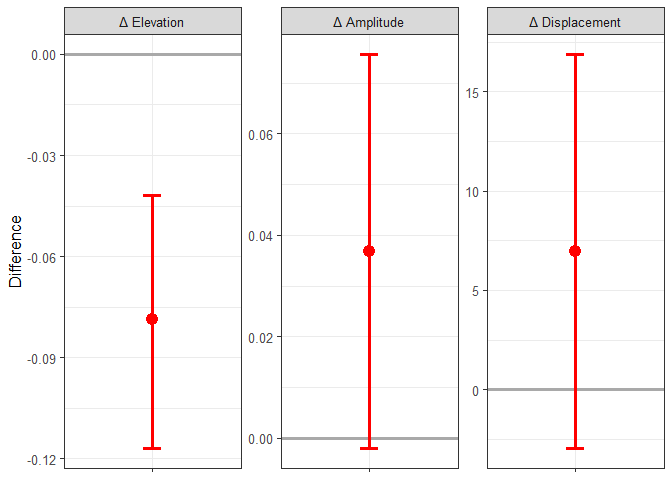
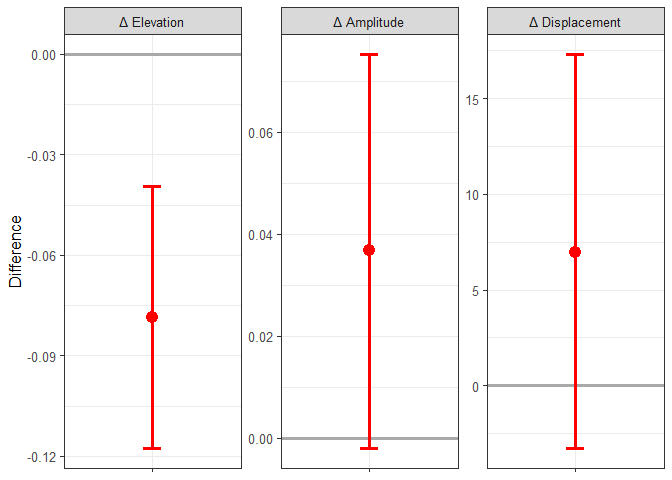
Update README to use new ssm_table options

diff --git a/README.md b/README.md
@@ -43,69 +43,63 @@ results <- ssm_analyze(jz2017, PA:NO, octants(), measures = c(NARPD, ASPD))
 ssm_table(results, xy = FALSE)
 ```
 
-<table class="gmisc_table" style="border-collapse: collapse; margin-top: 1em; margin-bottom: 1em;">
+<table class="table" style="margin-left: auto; margin-right: auto;">
 <thead>
 <tr>
-<td colspan="5" style="text-align: left;">
-Correlation-based Structural Summary Statistics with 95% CIs
-</td>
-</tr>
-<tr>
-<th style="border-bottom: 1px solid grey; border-top: 2px solid grey; text-align: left;">
+<th style="text-align:left;">
 Profile
 </th>
-<th style="border-bottom: 1px solid grey; border-top: 2px solid grey; text-align: left;">
+<th style="text-align:left;">
 Elevation
 </th>
-<th style="border-bottom: 1px solid grey; border-top: 2px solid grey; text-align: left;">
+<th style="text-align:left;">
 Amplitude
 </th>
-<th style="border-bottom: 1px solid grey; border-top: 2px solid grey; text-align: left;">
+<th style="text-align:left;">
 Displacement
 </th>
-<th style="border-bottom: 1px solid grey; border-top: 2px solid grey; text-align: left;">
+<th style="text-align:left;">
 Fit
 </th>
 </tr>
 </thead>
 <tbody>
 <tr>
-<td style="padding-right: 1em; min-width: 3em; white-space: nowrap; text-align: left;">
+<td style="text-align:left;">
 NARPD
 </td>
-<td style="padding-right: 1em; min-width: 3em; white-space: nowrap; text-align: left;">
+<td style="text-align:left;">
 0.20 [0.17, 0.24]
 </td>
-<td style="padding-right: 1em; min-width: 3em; white-space: nowrap; text-align: left;">
+<td style="text-align:left;">
 0.19 [0.16, 0.22]
 </td>
-<td style="padding-right: 1em; min-width: 3em; white-space: nowrap; text-align: left;">
-109.0 [99.5, 118.2]
+<td style="text-align:left;">
+109.0 [100.1, 118.4]
 </td>
-<td style="padding-right: 1em; min-width: 3em; white-space: nowrap; text-align: left;">
+<td style="text-align:left;">
 0.957
 </td>
 </tr>
 <tr>
-<td style="padding-right: 1em; min-width: 3em; white-space: nowrap; border-bottom: 2px solid grey; text-align: left;">
+<td style="text-align:left;">
 ASPD
 </td>
-<td style="padding-right: 1em; min-width: 3em; white-space: nowrap; border-bottom: 2px solid grey; text-align: left;">
+<td style="text-align:left;">
 0.12 [0.09, 0.16]
 </td>
-<td style="padding-right: 1em; min-width: 3em; white-space: nowrap; border-bottom: 2px solid grey; text-align: left;">
+<td style="text-align:left;">
 0.23 [0.19, 0.26]
 </td>
-<td style="padding-right: 1em; min-width: 3em; white-space: nowrap; border-bottom: 2px solid grey; text-align: left;">
-115.9 [107.1, 124.4]
+<td style="text-align:left;">
+115.9 [107.8, 125.0]
 </td>
-<td style="padding-right: 1em; min-width: 3em; white-space: nowrap; border-bottom: 2px solid grey; text-align: left;">
+<td style="text-align:left;">
 0.964
 </td>
 </tr>
 </tbody>
 </table>
-
 ``` r
 ssm_plot(results)
 ```
@@ -124,52 +118,46 @@ results <- ssm_analyze(jz2017, PA:NO, octants(), measures = c(NARPD, ASPD),
 ssm_table(results, xy = FALSE)
 ```
 
-<table class="gmisc_table" style="border-collapse: collapse; margin-top: 1em; margin-bottom: 1em;">
+<table class="table" style="margin-left: auto; margin-right: auto;">
 <thead>
 <tr>
-<td colspan="5" style="text-align: left;">
-Correlation-based Structural Summary Statistic Contrasts with 95% CIs
-</td>
-</tr>
-<tr>
-<th style="border-bottom: 1px solid grey; border-top: 2px solid grey; text-align: left;">
+<th style="text-align:left;">
 Contrast
 </th>
-<th style="border-bottom: 1px solid grey; border-top: 2px solid grey; text-align: left;">
-Δ Elevation
+<th style="text-align:left;">
+&Delta; Elevation
 </th>
-<th style="border-bottom: 1px solid grey; border-top: 2px solid grey; text-align: left;">
-Δ Amplitude
+<th style="text-align:left;">
+&Delta; Amplitude
 </th>
-<th style="border-bottom: 1px solid grey; border-top: 2px solid grey; text-align: left;">
-Δ Displacement
+<th style="text-align:left;">
+&Delta; Displacement
 </th>
-<th style="border-bottom: 1px solid grey; border-top: 2px solid grey; text-align: left;">
-Δ Fit
+<th style="text-align:left;">
+&Delta; Fit
 </th>
 </tr>
 </thead>
 <tbody>
 <tr>
-<td style="padding-right: 1em; min-width: 3em; white-space: nowrap; border-bottom: 2px solid grey; text-align: left;">
+<td style="text-align:left;">
 ASPD - NARPD
 </td>
-<td style="padding-right: 1em; min-width: 3em; white-space: nowrap; border-bottom: 2px solid grey; text-align: left;">
+<td style="text-align:left;">
 -0.08 [-0.12, -0.04]
 </td>
-<td style="padding-right: 1em; min-width: 3em; white-space: nowrap; border-bottom: 2px solid grey; text-align: left;">
+<td style="text-align:left;">
 0.04 [-0.00, 0.08]
 </td>
-<td style="padding-right: 1em; min-width: 3em; white-space: nowrap; border-bottom: 2px solid grey; text-align: left;">
-7.0 [-3.7, 17.5]
+<td style="text-align:left;">
+7.0 [-3.3, 17.3]
 </td>
-<td style="padding-right: 1em; min-width: 3em; white-space: nowrap; border-bottom: 2px solid grey; text-align: left;">
+<td style="text-align:left;">
 0.007
 </td>
 </tr>
 </tbody>
 </table>
-
 ``` r
 ssm_plot(results, xy = FALSE)
 ```
